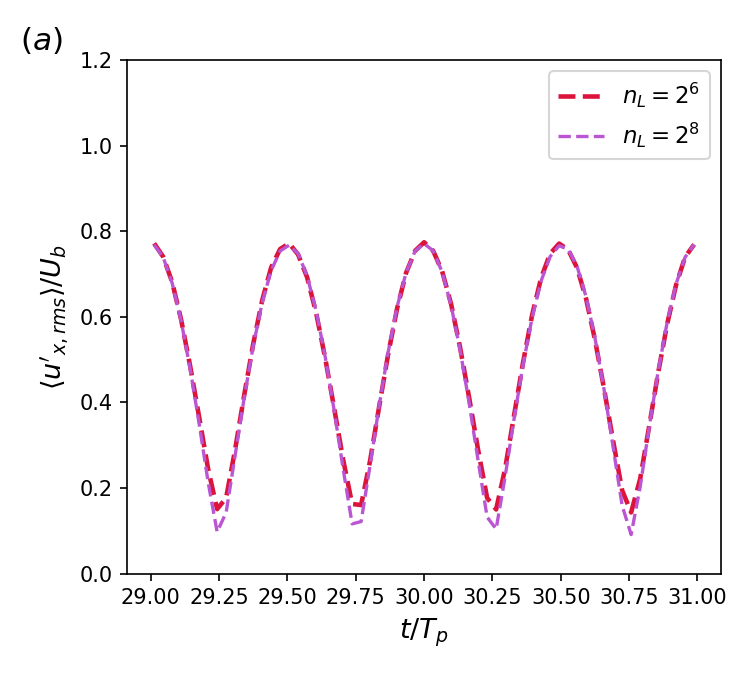
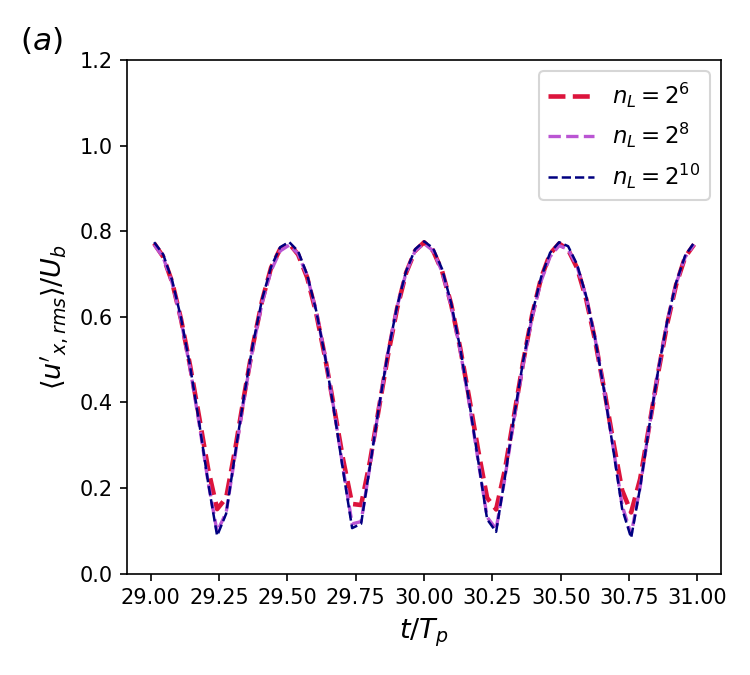
feat(figA16): add L10 point at zero new compute -- L6/L8/L10 all converge
runs/l10_kim_seg2 (the run Fig 8's data chains from) already sits at the
right condition (32.5rpm, correct geometry) and already covers t/Tp=
[29,31] -- no need to treat L10 as new-compute work. ux_rms=0.776,
uy_rms=0.212, matching Kim (~0.80/~0.21), L6 (0.774/0.212), and L8
(0.771/0.210) closely. Caveat: unlike L6/L8, this is a same-condition
checkpoint-restart segment, not a cold start -- noted in the script and
diary rather than silently treated as equivalent. See diary.md
2026-09-04 (2).

Claude-Session: https://claude.ai/code/session_01YAKLKMs5oUYu8r6RenvudK

diff --git a/scripts/plot_figA16_current.py b/scripts/plot_figA16_current.py
@@ -19,6 +19,18 @@ the [29,31] window). Gives ux_rms=0.774, uy_rms=0.212, matching both
 Kim (~0.80/~0.21) and the L8 point (0.771/0.210) closely -- a genuine
 grid-convergence result, unlike the old figure.
 
+Added a third series, L10 (n_L=2^10, matching Kim's own published
+resolution): runs/l10_kim_seg2, which already exists (it's the run
+Fig 8's data chains from) and already covers t/Tp=[29,31] --
+ux_rms=0.776, uy_rms=0.212, agreeing with L6/L8/Kim just as closely.
+Zero new compute. Caveat: unlike L6/L8, this is a same-condition
+checkpoint-restart segment (t_checkpoint=10.32, not a cold start) --
+the 2026-09-03 restart-bias test found that mechanism CAN perturb
+tau_100_max by a condition-dependent, sometimes double-digit amount, so
+this agreement is not proof the restart is bias-free here, just that if
+there is a bias, it isn't large enough to break convergence at this
+particular quantity/window.
+
 Usage:
     uv run python scripts/plot_figA16_current.py
 """
@@ -34,6 +46,7 @@ OUT_DIR = Path(__file__).parent.parent / "docs/kimetal2024/figure_replicas"
 
 L6_RUN = "fig13a_l6_rpm32.5"
 L8_RUN = "fig_a16_l8_rpm32p5"
+L10_RUN = "l10_kim_seg2"
 
 
 def t_per_st(params):
@@ -58,11 +71,13 @@ def load(run_id):
 
 t6, ux6, uy6 = load(L6_RUN)
 t8, ux8, uy8 = load(L8_RUN)
+t10, ux10, uy10 = load(L10_RUN)
 
-for comp, u6, u8, letter in [("x", ux6, ux8, "a"), ("y", uy6, uy8, "b")]:
+for comp, u6, u8, u10, letter in [("x", ux6, ux8, ux10, "a"), ("y", uy6, uy8, uy10, "b")]:
     fig, ax = plt.subplots(figsize=(5.0, 4.5))
     ax.plot(t6, u6, color="crimson", lw=2.2, ls="--", label=r"$n_L=2^6$")
     ax.plot(t8, u8, color="mediumorchid", lw=1.6, ls="--", label=r"$n_L=2^8$")
+    ax.plot(t10, u10, color="navy", lw=1.2, ls="--", label=r"$n_L=2^{10}$")
     ax.set_xlabel(r"$t/T_p$", fontsize=13)
     ax.set_ylabel(rf"$\langle u'_{{{comp},rms}}\rangle/U_b$", fontsize=13)
     ax.set_ylim(0.0, 1.2)

diff --git a/scripts/audit_figA16_source.py b/scripts/audit_figA16_source.py
@@ -31,7 +31,8 @@ def t_per_st(params):
 
 import json
 
-for run_id in ["health_l6", "fig_a16_l8_rpm32p5", "fig13a_l6_rpm32.5"]:
+for run_id in ["health_l6", "fig_a16_l8_rpm32p5", "fig13a_l6_rpm32.5",
+               "l10_kim_seg2", "l10_kim_fig8_signed"]:
     params = json.loads((RUNS / run_id / "params.json").read_text())
     rpm = params["omega_b"] * 60 / (2 * math.pi)
     T_per_st = t_per_st(params)

diff --git a/diary.md b/diary.md
@@ -1,5 +1,31 @@
 # Experiment diary
 
+## 2026-09-04 (2) — FigA16 L10 point added, at zero new compute: L6/L8/L10
+all converge, matching Kim closely.
+
+User asked which resolutions FigA16 needs redoing at, planning to start
+with L6/L8 and "think about L10" as a separate, presumably costly, step.
+Checked whether any existing L10 run already covers the required
+condition/window before treating L10 as new-compute work: `runs/
+l10_kim_seg2` (the run Fig 8's data chains from) is at 32.5rpm, correct
+geometry (0.03575), and already reaches t/Tp=[29,31] -- exactly FigA16's
+window. `ux_rms=0.776`, `uy_rms=0.212`, matching Kim (~0.80/~0.21), L6
+(0.774/0.212), and L8 (0.771/0.210) closely. Zero new compute needed.
+
+Caveat stated in `scripts/plot_figA16_current.py`: unlike the L6/L8
+points, `l10_kim_seg2` is a same-condition checkpoint-restart segment
+(`t_checkpoint=10.32`), not a cold start -- the 2026-09-03 restart-bias
+test found that mechanism can perturb `tau_100_max` by a condition-
+dependent, sometimes double-digit percentage. This close 3-way agreement
+doesn't prove the restart is bias-free here; it shows that if there is
+one, it isn't large enough to break convergence for this particular
+quantity/window. Regenerated both panels with all three resolutions --
+L8/L10 nearly overlap, L6 shows the expected slightly-larger trough
+excursions of a coarser grid. FigA16 is now complete at L6, L8, and
+Kim's own published resolution (n_L=2^10), with nothing further to redo
+unless a genuinely independent (non-chained) L10 cold start is wanted
+later.
+
 ## 2026-09-04 — user pushed back on "not stale" (correctly): FigA16 WAS
 stale, comparing two different physical conditions, not a genuine
 grid-convergence check. Fixed. Fig9-12 and the cross-binary-chain
